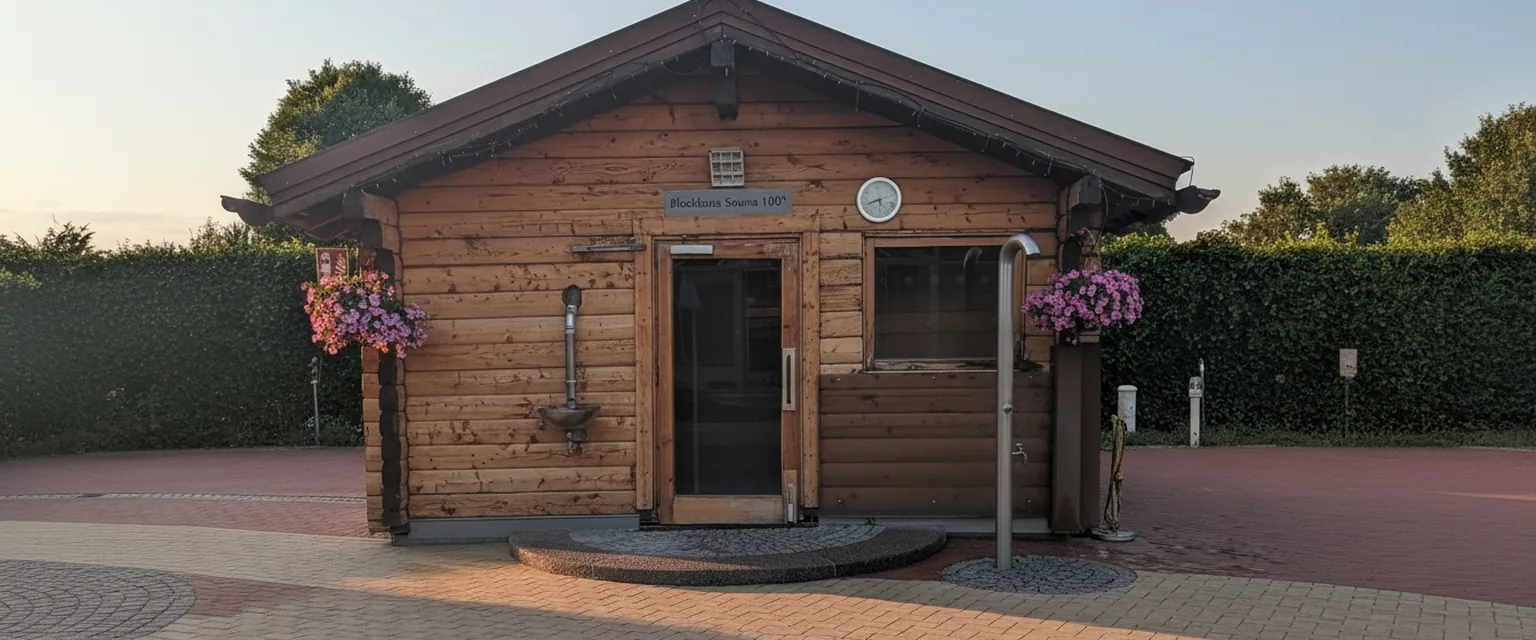
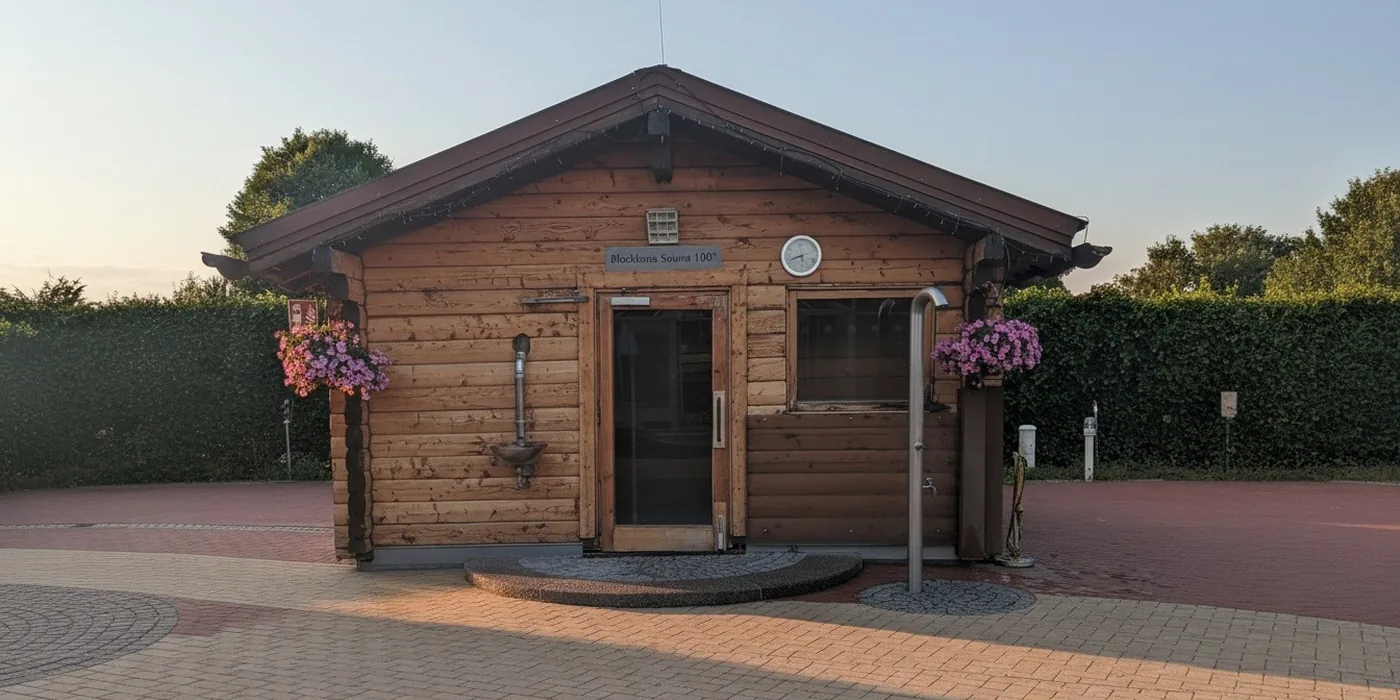
fix(tafel): Kabinen-Foto als Kachel statt als Vollbreiten-Hintergrund
Der Spalten-Kopf ist bei 1080p rund 936x103 px, also 9:1 — die Fotos sind
2,4:1. Als background-cover blieb davon nur ein waagerechter Streifen Wand
uebrig; die Kabine war nicht wiederzuerkennen, und genau darum geht es.

Das Foto sitzt jetzt als 2:1-Kachel am rechten Rand des Kopfes und wird per
mask-image weich in die Sauna-Farbe geblendet. Links steht Name, Temperatur
und Standort auf der vollen Akzentfarbe — dadurch auch besserer Kontrast als
ueber dem Foto. Die Quellbilder sind entsprechend auf 1400x700 neu
zugeschnitten (aus den bereits bearbeiteten Fassungen, kein neuer fal.ai-Lauf).

diff --git a/src/components/SaunaTileColumn.tsx b/src/components/SaunaTileColumn.tsx
@@ -209,51 +209,60 @@ export function SaunaTileColumn({
           an der Header-Höhe hängen und von 1080p bis 4K mitskalieren — genau
           wie auf den Aufguss-Karten. */}
       <div
-        className="relative flex-shrink-0 flex flex-col justify-center rounded-t-2xl overflow-hidden"
+        className="relative flex-shrink-0 flex items-center rounded-t-2xl overflow-hidden"
         style={{
           height: 'clamp(54px, 9.5vh, 165px)',
           containerType: 'size',
-          padding: '0 clamp(10px, 1.6vh, 26px)',
-          // Seit hier ECHTE Fotos der Kabinen hängen (statt generierter Motive)
-          // deckt der Schleier nur noch die linke Textzone ab — die Kabine
-          // selbst bleibt frei, denn genau die soll der Gast wiedererkennen.
-          // Reihenfolge: Lesbarkeits-Schwarz über Sauna-Farbe über Foto.
-          // Das Schwarz garantiert den Kontrast für die weiße Schrift auch
-          // dann, wenn ein Admin eine helle Akzentfarbe wählt.
-          backgroundImage: sauna.header_image
-            ? [
-                'linear-gradient(90deg, rgba(0,0,0,0.62) 0%, rgba(0,0,0,0.45) 22%, rgba(0,0,0,0.12) 42%, rgba(0,0,0,0) 56%)',
-                `linear-gradient(90deg, ${sauna.accent_color}cc 0%, ${sauna.accent_color}80 20%, ${sauna.accent_color}26 38%, transparent 55%)`,
-                `url(${JSON.stringify(sauna.header_image)})`,
-              ].join(', ')
-            : `linear-gradient(120deg, ${sauna.accent_color} 0%, ${sauna.accent_color}bb 100%)`,
-          backgroundSize: 'cover',
-          backgroundPosition: 'center',
-          // Die Sauna-Farbe darf nicht ganz aus dem Kopf verschwinden — sie ist
-          // der Schlüssel, mit dem der Gast Spalte und Karten zusammenbringt.
-          // Deshalb als kräftiges Band an der Unterkante statt als Farbwäsche.
+          paddingLeft: 'clamp(10px, 1.6vh, 26px)',
+          background: `linear-gradient(120deg, ${sauna.accent_color} 0%, ${sauna.accent_color}cc 100%)`,
+          // Die Sauna-Farbe ist der Schlüssel, mit dem der Gast Spalte und
+          // Karten zusammenbringt — deshalb zusätzlich als kräftiges Band an
+          // der Unterkante, das auch neben dem Foto noch trägt.
           borderBottom: `clamp(3px, 0.55vh, 7px) solid ${sauna.accent_color}`,
         }}
       >
-        <div
-          className="font-black uppercase tracking-tight text-white leading-none truncate"
-          style={{ fontSize: 'clamp(16px, 34cqh, 56px)', textShadow: '0 2px 6px rgba(0,0,0,0.55)' }}
-        >
-          {sauna.name}
+        <div className="min-w-0 flex-1">
+          <div
+            className="font-black uppercase tracking-tight text-white leading-none truncate"
+            style={{ fontSize: 'clamp(16px, 34cqh, 56px)', textShadow: '0 2px 6px rgba(0,0,0,0.45)' }}
+          >
+            {sauna.name}
+          </div>
+          <div
+            className="flex items-center text-white/90 font-semibold leading-tight truncate"
+            style={{
+              fontSize: 'clamp(10px, 17cqh, 26px)',
+              gap: 'clamp(4px, 6cqh, 12px)',
+              marginTop: 'clamp(2px, 4cqh, 8px)',
+              textShadow: '0 1px 4px rgba(0,0,0,0.5)',
+            }}
+          >
+            {sauna.temperature_label && <span className="tabular-nums">{sauna.temperature_label}</span>}
+            {sauna.temperature_label && sauna.location_hint && <span aria-hidden className="opacity-60">·</span>}
+            {sauna.location_hint && <span className="truncate">📍 {sauna.location_hint}</span>}
+          </div>
         </div>
-        <div
-          className="flex items-center text-white/90 font-semibold leading-tight truncate"
-          style={{
-            fontSize: 'clamp(10px, 17cqh, 26px)',
-            gap: 'clamp(4px, 6cqh, 12px)',
-            marginTop: 'clamp(2px, 4cqh, 8px)',
-            textShadow: '0 1px 4px rgba(0,0,0,0.6)',
-          }}
-        >
-          {sauna.temperature_label && <span className="tabular-nums">{sauna.temperature_label}</span>}
-          {sauna.temperature_label && sauna.location_hint && <span aria-hidden className="opacity-60">·</span>}
-          {sauna.location_hint && <span className="truncate">📍 {sauna.location_hint}</span>}
-        </div>
+
+        {/* Das Foto der echten Kabine — bewusst als 2:1-Kachel am rechten Rand
+            und NICHT als Hintergrund über die volle Breite. Der Kopf ist bei
+            1080p rund 936×103 px, also 9:1; ein Foto als Vollbreiten-Hintergrund
+            würde davon nur einen waagerechten Streifen Wand zeigen. Zum
+            Wiedererkennen muss der Gast aber das ganze Häuschen sehen.
+            Die Maske links blendet die Kachel weich in die Sauna-Farbe. */}
+        {sauna.header_image && (
+          <div
+            aria-hidden
+            className="h-full flex-shrink-0"
+            style={{
+              aspectRatio: '2 / 1',
+              backgroundImage: `url(${JSON.stringify(sauna.header_image)})`,
+              backgroundSize: 'cover',
+              backgroundPosition: 'center',
+              WebkitMaskImage: 'linear-gradient(90deg, transparent 0%, #000 26%)',
+              maskImage: 'linear-gradient(90deg, transparent 0%, #000 26%)',
+            }}
+          />
+        )}
       </div>
 
       {/* Fixes Grid: tilesPerColumn Reihen mit 1/N Höhe — auch wenn weniger
